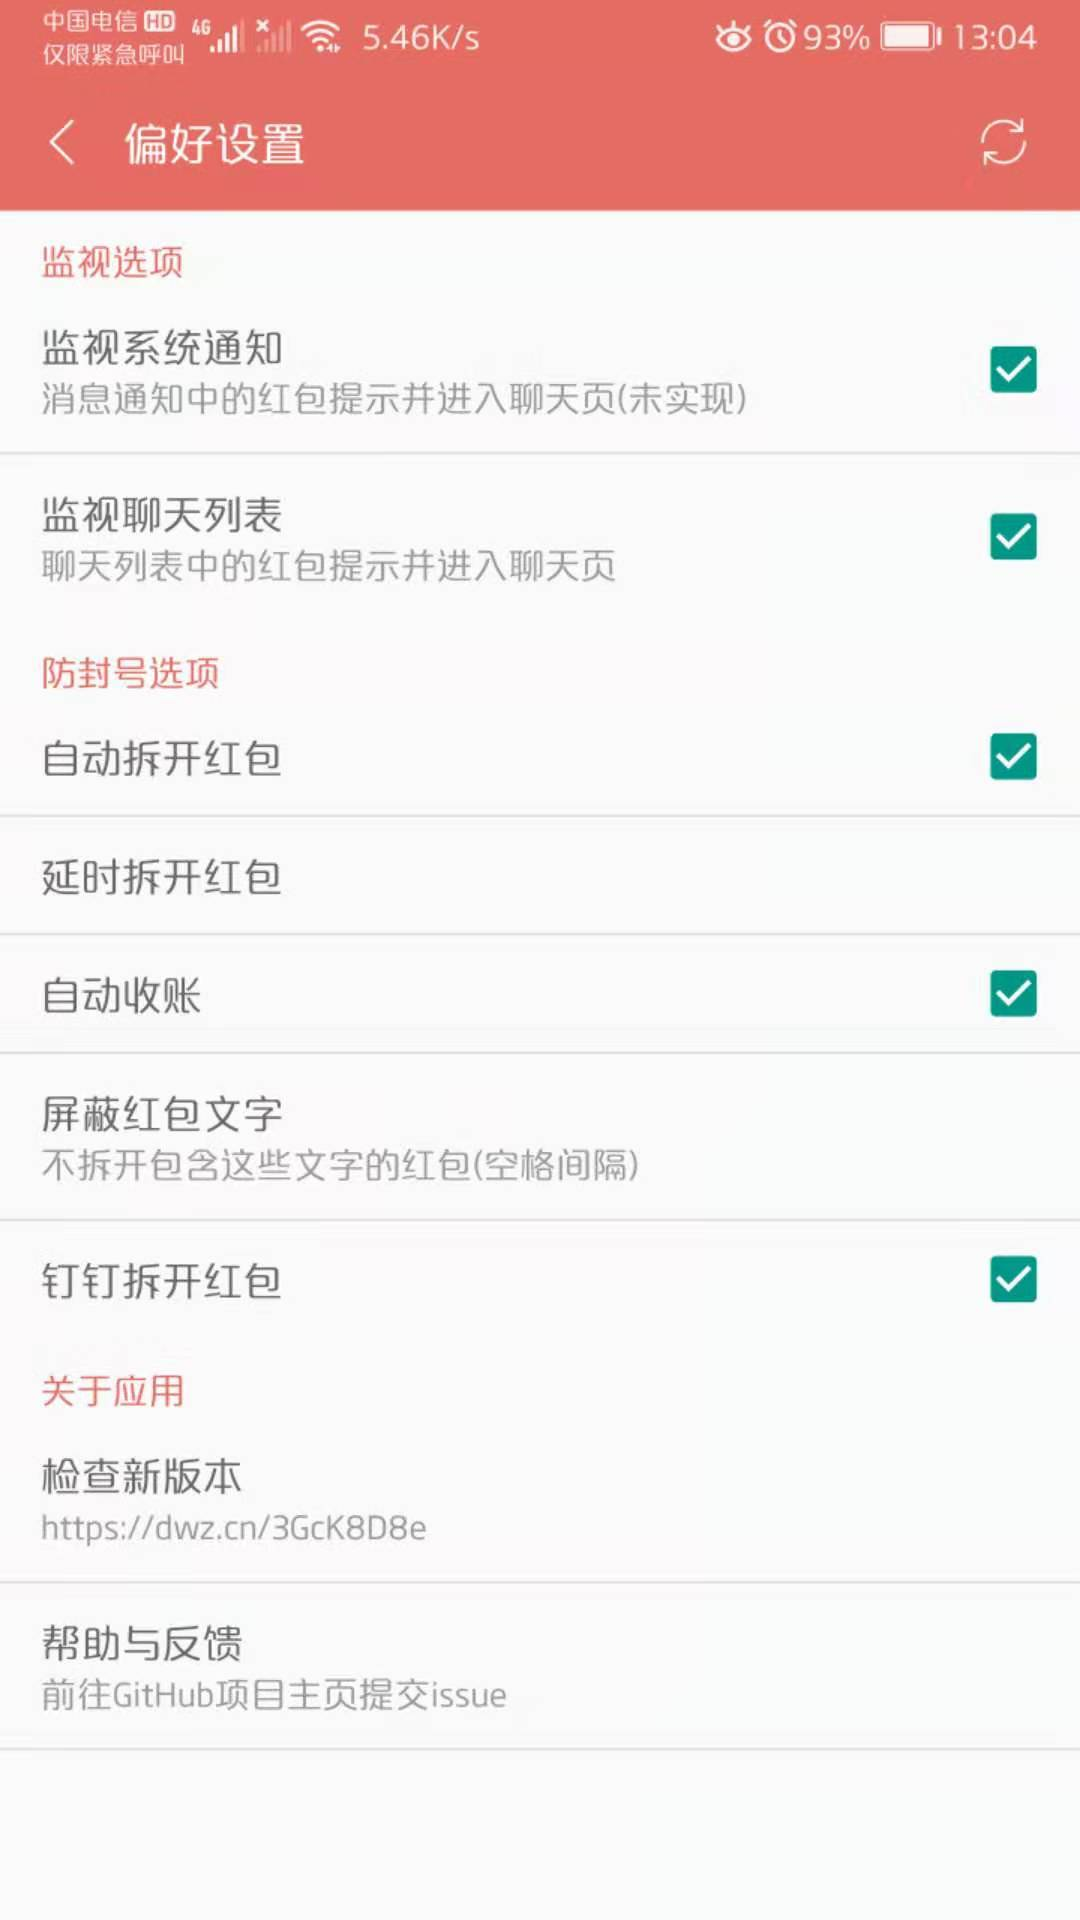
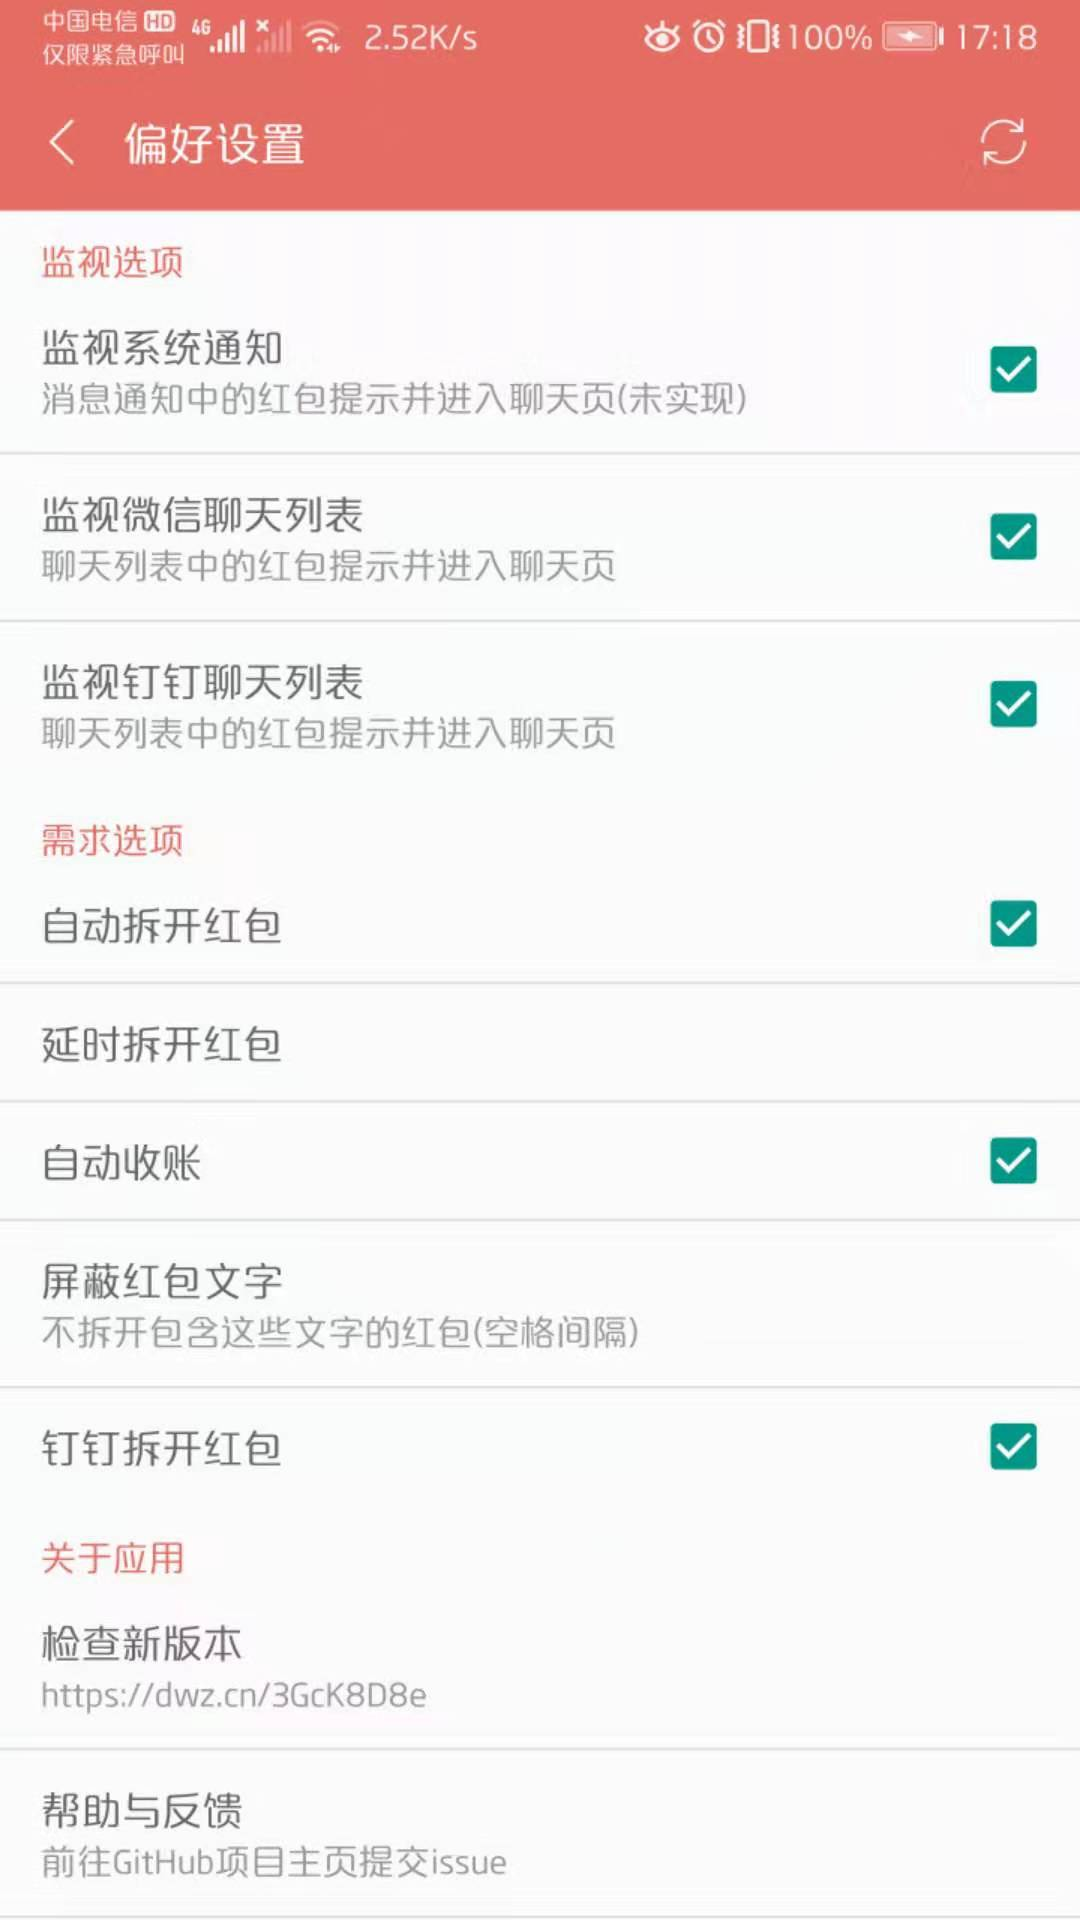
增加钉钉好友列表监控

diff --git a/app/src/main/java/xyz/monkeytong/hongbao/services/HongbaoService.java b/app/src/main/java/xyz/monkeytong/hongbao/services/HongbaoService.java
@@ -66,12 +66,14 @@ public class HongbaoService extends AccessibilityService implements SharedPrefer
     public static final String BUTTON_CLASS_NAME = "android.widget.Button";
 
     public static final String DINGDING_CHAT_LIST_ID = "com.alibaba.android.rimet:id/session_content_tv";
+
     public static final String DINGDING_OPEN_CLASS_NAME = "com.alibaba.android.dingtalk.redpackets.activities.FestivalRedPacketsPickActivity";
     public static final String DINGDING_PACKAGE_NAME = "com.alibaba.android.rimet";
     public static final String DINGDING_PACKAGE_RESOURCE = "com.alibaba.android.rimet:id/redpackets_desc";
     public static final String DINGDING_PACKAGE_UNPACK = "拼手气红包";
     public static final String DINGDING_PACKAGE_UNPACK2 = "个人红包";
-    public static final String DINGDING_PACKAGE_UNPACK_TEXT = "[红包]";
+    public static final String DINGDING_PACKAGE_VIEW = "查看红包";
+
     public static final String DINGDING_TEXT = "[红包]";
     public static final String DINGDING_UNPACK_RESOURCE_ID = "com.alibaba.android.rimet:id/iv_pick_bottom";
 
@@ -289,7 +291,7 @@ public class HongbaoService extends AccessibilityService implements SharedPrefer
                 path.moveTo(i, j);
                 if (android.os.Build.VERSION.SDK_INT >= 24) {
                     Logger.d(TAG, "手势构建完成");
-                    boolean bool = dispatchGesture((new GestureDescription.Builder()).addStroke(new GestureDescription.StrokeDescription(path, 100L, 50L)).build(), new AccessibilityService.GestureResultCallback() {
+                    boolean bool = dispatchGesture((new GestureDescription.Builder()).addStroke(new GestureDescription.StrokeDescription(path, 200L, 200L)).build(), new AccessibilityService.GestureResultCallback() {
                         public void onCompleted(GestureDescription param1GestureDescription) {
                             Logger.d(TAG, "手势点击完成");
                             super.onCompleted(param1GestureDescription);
@@ -339,17 +341,9 @@ public class HongbaoService extends AccessibilityService implements SharedPrefer
         Logger.d(TAG, "mUnpackCount Numbers: " + mUnpackCount);
         if (android.os.Build.VERSION.SDK_INT > 23 && mUnpackCount > 0) {
             Path path = new Path();
-//            if (640 == dpi) { //1440
-//                path.moveTo(720, 1575);
-//            } else if (320 == dpi) {//720p
-//                path.moveTo(355, 780);
-//            } else if (480 == dpi) {//1080p
-//                path.moveTo(533, 1115);
-//            } else{
             final int x = metrics.widthPixels / 2;
             final int y = metrics.heightPixels * 13 / 20;
             path.moveTo(x, y);
-//            }
             GestureDescription.Builder gestureBuilder = new GestureDescription.Builder();
             Logger.d(TAG, "Get Path: " + path.toString());
             gestureBuilder.addStroke(new GestureDescription.StrokeDescription(path, 200, 50));
@@ -386,15 +380,15 @@ public class HongbaoService extends AccessibilityService implements SharedPrefer
 
     private void handleContentChanged(AccessibilityEvent paramAccessibilityEvent) {
         AccessibilityNodeInfo accessibilityNodeInfo = paramAccessibilityEvent.getSource();
+        // Logger.d(TAG, accessibilityNodeInfo.getClassName().toString());
         if (accessibilityNodeInfo != null && accessibilityNodeInfo.getPackageName().equals(WECHAT_PACKAGE_NAME)) {
-            Logger.d(TAG, accessibilityNodeInfo.getClassName().toString());
             if (sharedPreferences.getBoolean("pref_watch_list", false) && WeChatList(accessibilityNodeInfo)) {
-                Logger.d(TAG, "处理 content 变化 -- 微信聊天列表");
+                Logger.d(TAG, "处理 content 变化 -- 微信好友列表");
                 return;
             }
 
             if (sharedPreferences.getBoolean("pref_watch_chat", false)) {
-                Logger.d(TAG, "处理 content 变化 -- 微信");
+                Logger.d(TAG, "处理 content 变化 -- 微信聊天");
                 if (WeChatPackage(accessibilityNodeInfo))
                     return;
             }
@@ -407,21 +401,51 @@ public class HongbaoService extends AccessibilityService implements SharedPrefer
             return;
         }
 
-        if (accessibilityNodeInfo != null && accessibilityNodeInfo.getPackageName().equals(DINGDING_PACKAGE_NAME) && sharedPreferences.getBoolean("pref_dingding_watch", false)) {
-            Logger.d(TAG, "处理 content 变化 -- 钉钉");
-            DingDingPackageByViewId(accessibilityNodeInfo);
-            return;
+        if (accessibilityNodeInfo != null && accessibilityNodeInfo.getPackageName().equals(DINGDING_PACKAGE_NAME)) {
+            if (sharedPreferences.getBoolean("pref_watch_dingding_list", false) && DingDingList(accessibilityNodeInfo)) {
+                // 钉钉好友列表
+                Logger.d(TAG, "处理 content 变化 -- 钉钉好友列表");
+                return;
+            }
+
+            if (sharedPreferences.getBoolean("pref_dingding_watch", false)) {
+                // 聊天界面
+                Logger.d(TAG, "处理 content 变化 -- 钉钉");
+                DingDingPackageByViewId(accessibilityNodeInfo);
+                return;
+            }
         }
     }
 
+    private Boolean DingDingList(AccessibilityNodeInfo AccessibilityNodeInfo) {
+        for (AccessibilityNodeInfo accessibilityNodeInfo : AccessibilityNodeInfo.findAccessibilityNodeInfosByViewId(DINGDING_CHAT_LIST_ID)) {
+            if ((accessibilityNodeInfo.getText().toString().contains(DINGDING_TEXT)) && accessibilityNodeInfo.getParent().isClickable()) {
+                Logger.d(TAG, "发现钉钉聊天列表红包");
+                accessibilityNodeInfo.getParent().performAction(AccessibilityNodeInfo.ACTION_CLICK);
+                return true;
+            }
+        }
+        return false;
+    }
+
     private void DingDingPackageByViewId(AccessibilityNodeInfo paramAccessibilityNodeInfo) {
+
         Iterator iterator = paramAccessibilityNodeInfo.findAccessibilityNodeInfosByViewId(DINGDING_PACKAGE_RESOURCE).iterator();
         while (iterator.hasNext()) {
             AccessibilityNodeInfo accessibilityNodeInfo = ((AccessibilityNodeInfo) iterator.next()).getParent();
+            // 查看红包
+            // accessibilityNodeInfo.getChild(1).getText().toString()
             if (accessibilityNodeInfo != null && accessibilityNodeInfo.getChildCount() == 3 && (accessibilityNodeInfo.getChild(2).getText().toString().equals(DINGDING_PACKAGE_UNPACK) || accessibilityNodeInfo.getChild(2).getText().toString().equals(DINGDING_PACKAGE_UNPACK2))) {
-                Logger.d(TAG, "发现钉钉红包");
-                accessibilityNodeInfo.getChild(0).getParent().performAction(16);
-                SystemClock.sleep(200L);
+                String excludeWords = sharedPreferences.getString("pref_watch_exclude_words", "");
+                String[] excludeWordsArray = excludeWords.split(" +");
+                String hongbaoContent = accessibilityNodeInfo.getChild(0).getText().toString();
+                for (String word : excludeWordsArray) {
+                    if (word.length() > 0 && hongbaoContent.contains(word))
+                        return;
+                    Logger.d(TAG, "发现钉钉红包");
+                    accessibilityNodeInfo.getChild(0).getParent().performAction(16);
+                    SystemClock.sleep(200L);
+                }
             }
         }
     }
@@ -451,7 +475,7 @@ public class HongbaoService extends AccessibilityService implements SharedPrefer
                     } else {
                         continue;
                     }
-                } else{
+                } else {
                     mUnpackCount += 1;
                     Logger.d(TAG, "mUnpackCount Numbers: " + mUnpackCount);
                     String[] excludeWordsArray = excludeWords.split(" +");

diff --git a/CHANGELOG.md b/CHANGELOG.md
@@ -1,19 +1,23 @@
 # 更新日志
 
-**[v1.0.0 (2020-01-03)](https://github.com/B0y1n4o4/LuckyMoney/releases/download/v1.0/app-release.apk)**
-- 监视聊天页面, 红包自动领取
-- 支持自动收账
-- 支持屏蔽关键词
+**[v1.0.5 (2020-01-14)](https://github.com/B0y1n4o4/LuckyMoney/releases/download/v1.0.5/app-release.apk)**
+- 增加钉钉好友列表监控
+- 增加钉钉屏蔽关键字
+
+**[v1.0.4 (2020-01-11)](https://github.com/B0y1n4o4/LuckyMoney/releases/download/v1.0.4/app-release.apk)**
+- 修复MIUI手机点开红包不拆开问题
+
+**[v1.0.3 (2020-01-10)](https://github.com/B0y1n4o4/LuckyMoney/releases/download/v1.0.3/app-release.apk)**
+- 修复漏包、漏点开按钮情况
+
+**[v1.0.2 (2020-01-10)](https://github.com/B0y1n4o4/LuckyMoney/releases/download/v1.0.2/app-release.apk)**
+- 修复新红包UI界面变化产生的BUG(重复点击)
 
 **[v1.0.1 (2020-01-04)](https://github.com/B0y1n4o4/LuckyMoney/releases/download/v1.0.1/app-release.apk)**
 - 增加聊天列表的监控
 - 修复 mMutex 循环改判断
 
-**[v1.0.2 (2020-01-10)](https://github.com/B0y1n4o4/LuckyMoney/releases/download/v1.0.2/app-release.apk)**
-- 修复新红包UI界面变化产生的BUG(重复点击)
-
-**[v1.0.3 (2020-01-10)](https://github.com/B0y1n4o4/LuckyMoney/releases/download/v1.0.3/app-release.apk)**
-- 修复漏包、漏点开按钮情况
-
-**[v1.0.4 (2020-01-11)](https://github.com/B0y1n4o4/LuckyMoney/releases/download/v1.0.4/app-release.apk)**
-- 修复MIUI手机点开红包不拆开问题
+**[v1.0.0 (2020-01-03)](https://github.com/B0y1n4o4/LuckyMoney/releases/download/v1.0/app-release.apk)**
+- 监视聊天页面, 红包自动领取
+- 支持自动收账
+- 支持屏蔽关键词

diff --git a/README.md b/README.md
@@ -21,6 +21,7 @@ Version 7.0.10
 
 ## 适配手机
 华为 EMUI 10 Android 10
+
 小米 MIUI 11 Android 10
 
 ## 更新日志
